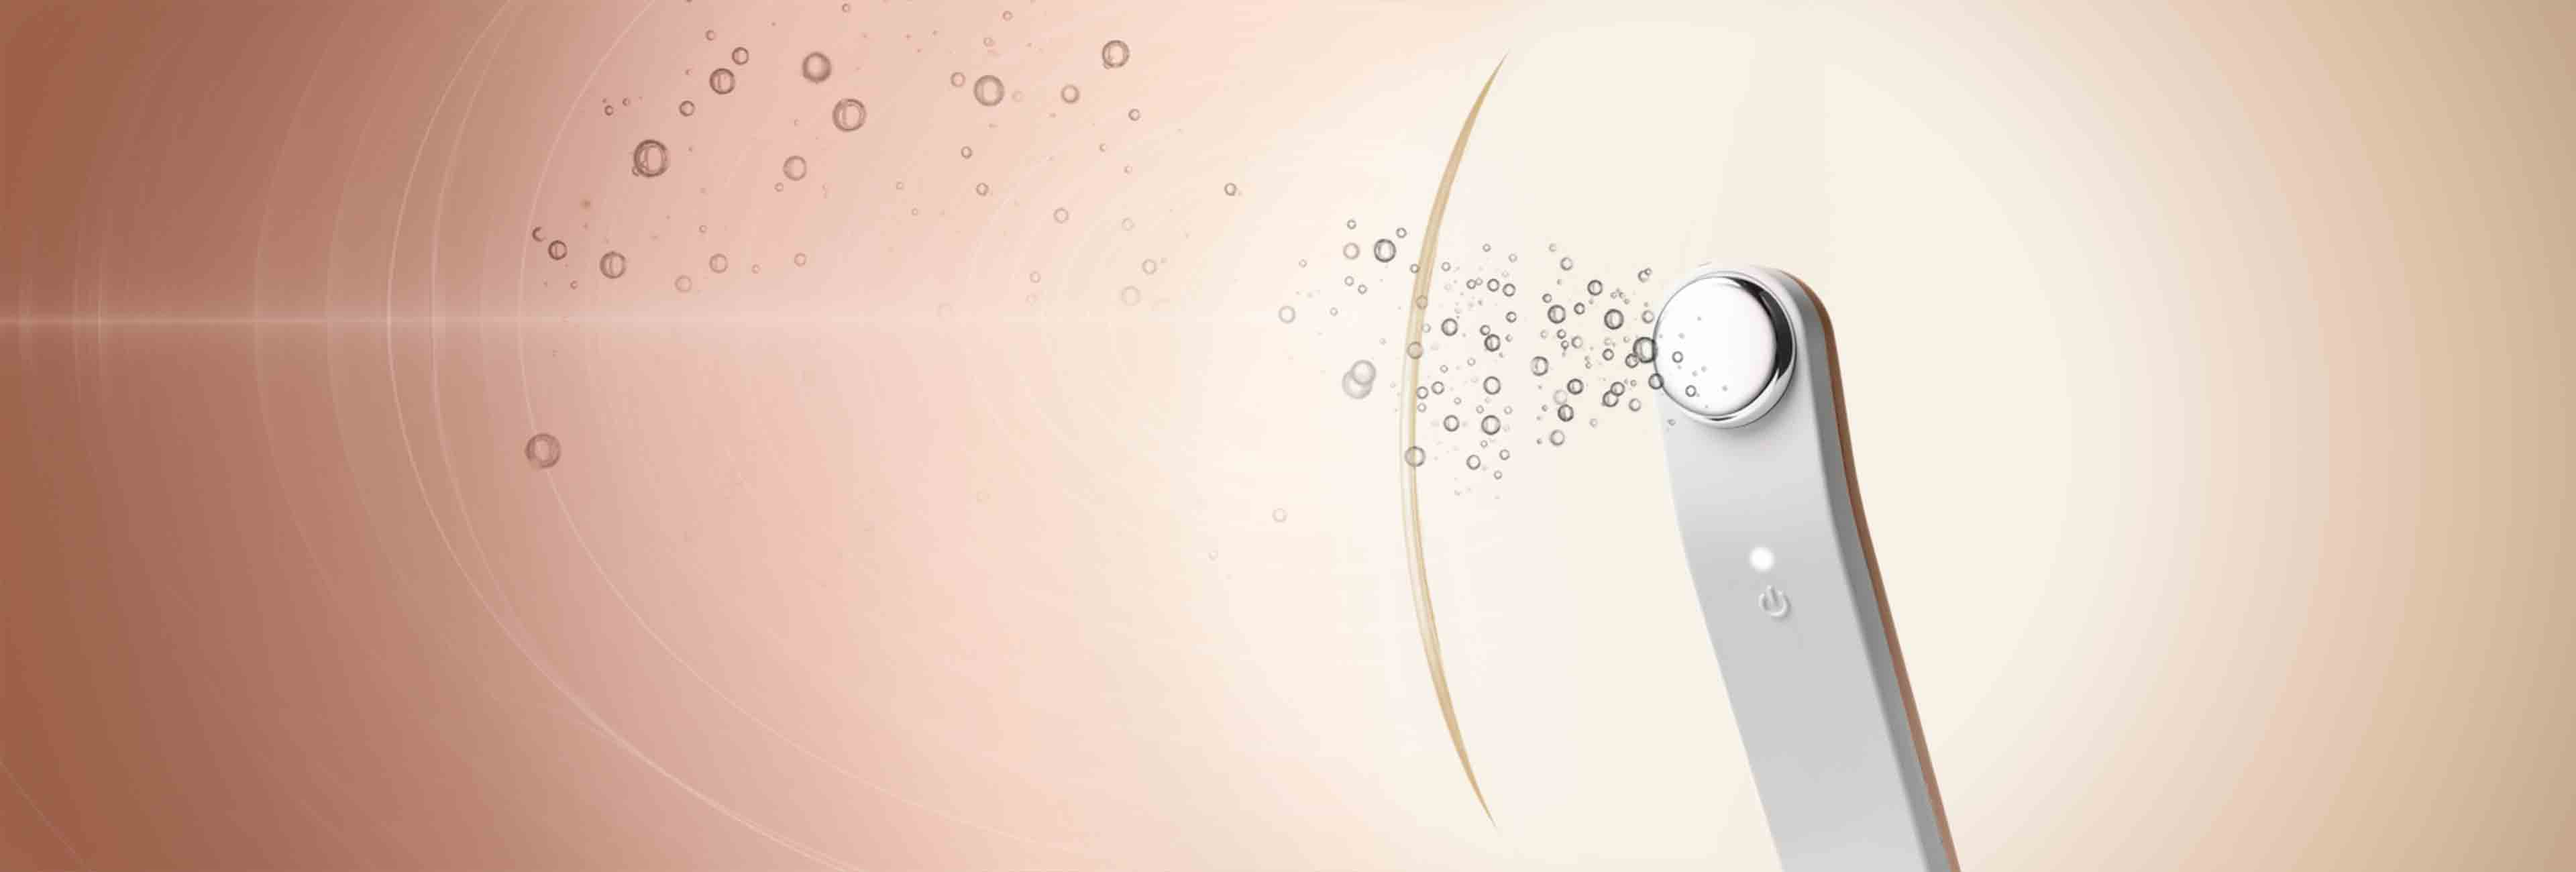
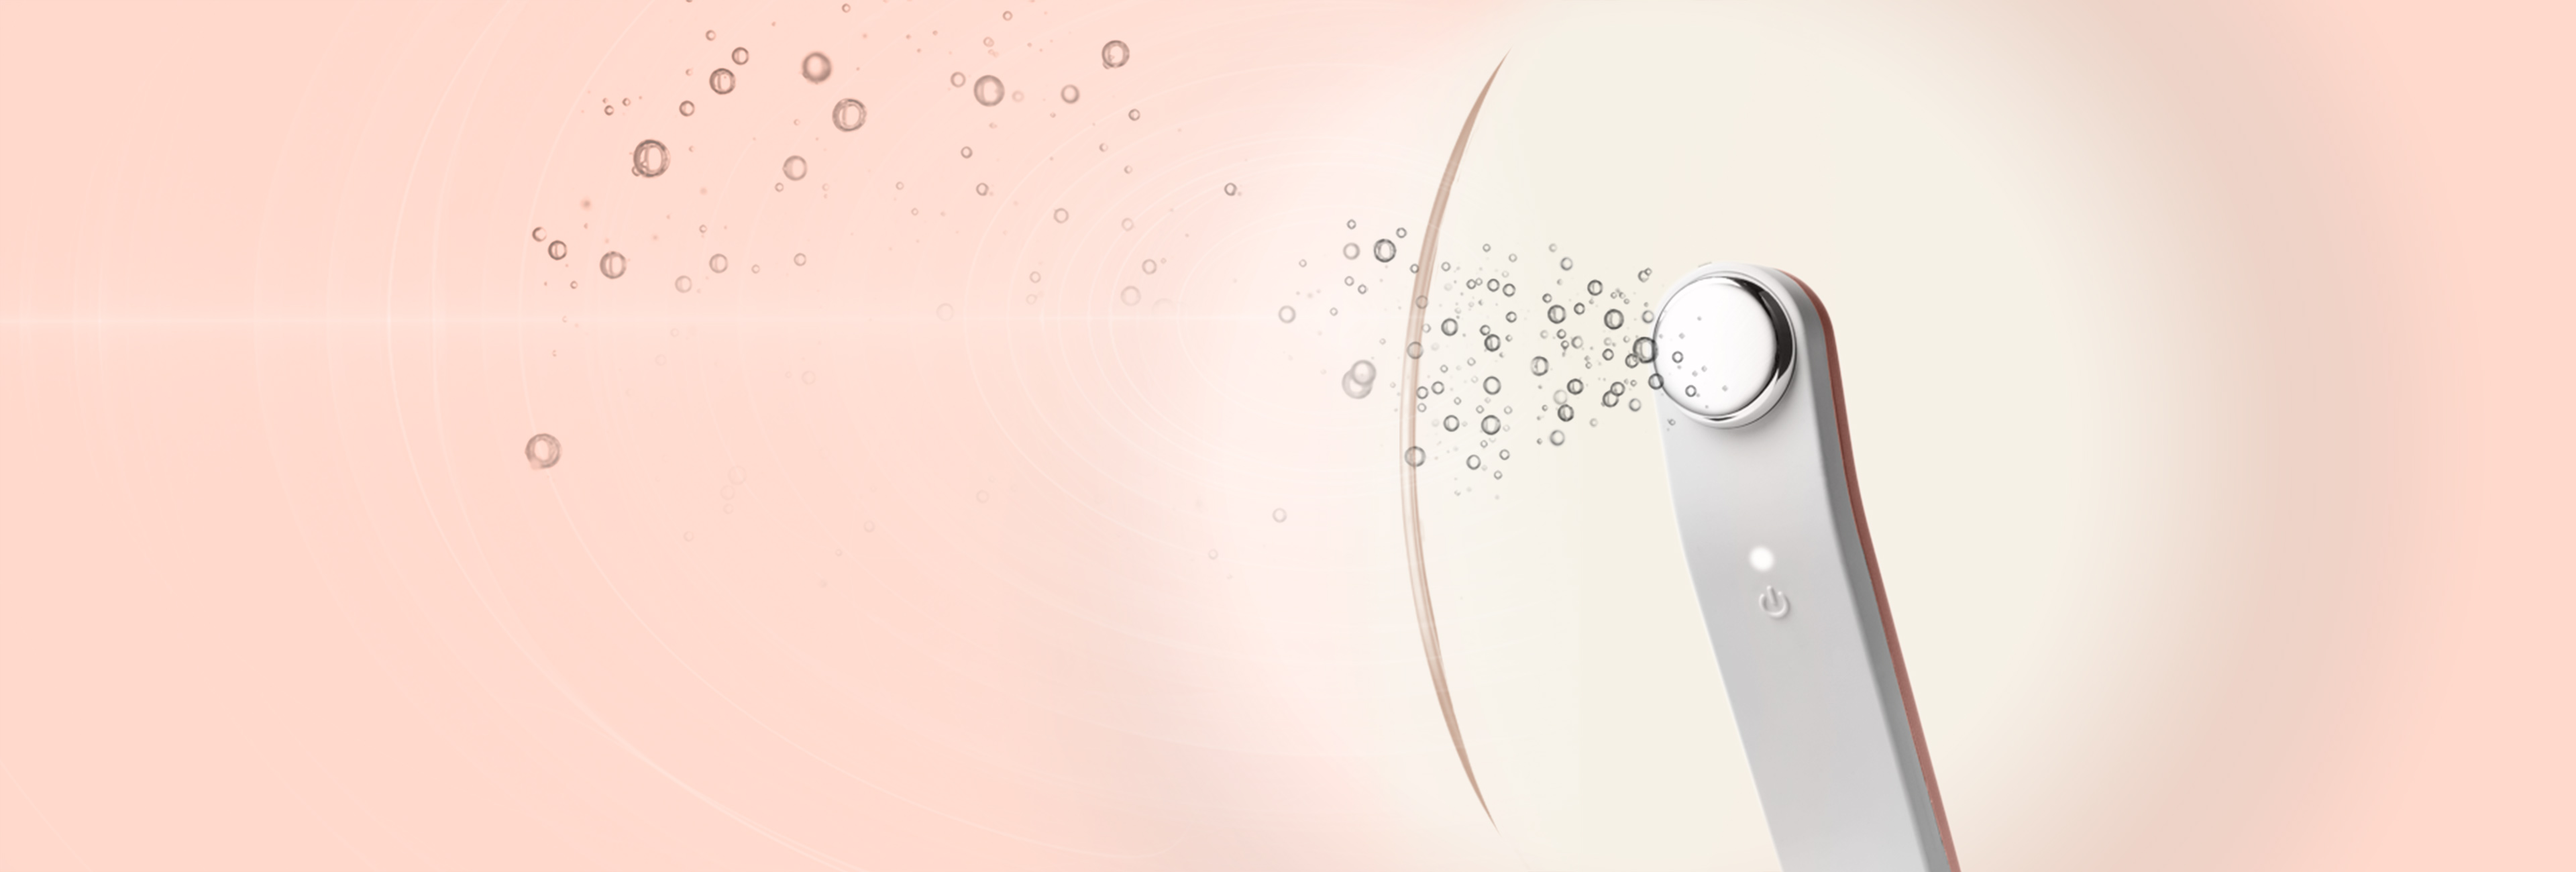
re image updates

diff --git a/skin/frontend/zonda/default/css/styles-zonda.css b/skin/frontend/zonda/default/css/styles-zonda.css
@@ -3689,12 +3689,12 @@ div.cart-empty {
 }
 
 #slide-2 {
-    background: url("../images/homepage-hero-banner-2-desktop2.jpg") no-repeat center bottom #d0b698;
+    background: url("../images/homepage-hero-banner-2-desktop2.jpg") no-repeat center bottom #ffd9cc;
     background-size: auto 100%;
 }
 
 #slide-3 {
-    background: url("../images/homepage-hero-forbes2.jpg") no-repeat center top #abc7d5;
+    background: url("../images/homepage-hero-forbes2.jpg") no-repeat center top #9bb6cc;
     background-size: auto 100%;
 }
 
@@ -5416,7 +5416,7 @@ div.menu a, #nav li a, #blog_nav li a, #nav-links a {
 }
 
 .results-section-hero {
-    background: url("../images/results-banner.jpg") no-repeat center #dfd0b3;
+    background: url("../images/results-banner.jpg") no-repeat center #eadec8;
     background-size: auto 100%;
     height: 340px;
     width: 100%;

diff --git a/skin/frontend/zonda/default/css/eternal/custommenu.css b/skin/frontend/zonda/default/css/eternal/custommenu.css
@@ -415,10 +415,14 @@ div.eternal-custom-menu-popup a.level1,
 
 #nav .submega-links a {
     padding: 0;
-    margin-bottom: 16px;
+    margin-top: 16px;
     display: block;
     width: auto;
     clear: both;
+}
+
+#nav .submega-links a:first-child {
+    margin-top: 0;
 }
 
 #nav .submega-links a span {
@@ -474,6 +478,7 @@ div.eternal-custom-menu-popup a.level1,
     width: 265px;
     height: 263px;
     background: url('/skin/frontend/zonda/default/images/header-thumb-wand.jpg') no-repeat top;
+    background-size: 265px auto;
 }
 
 #nav .submega-right.submega-right-shop .submega-right-shop-inner {
